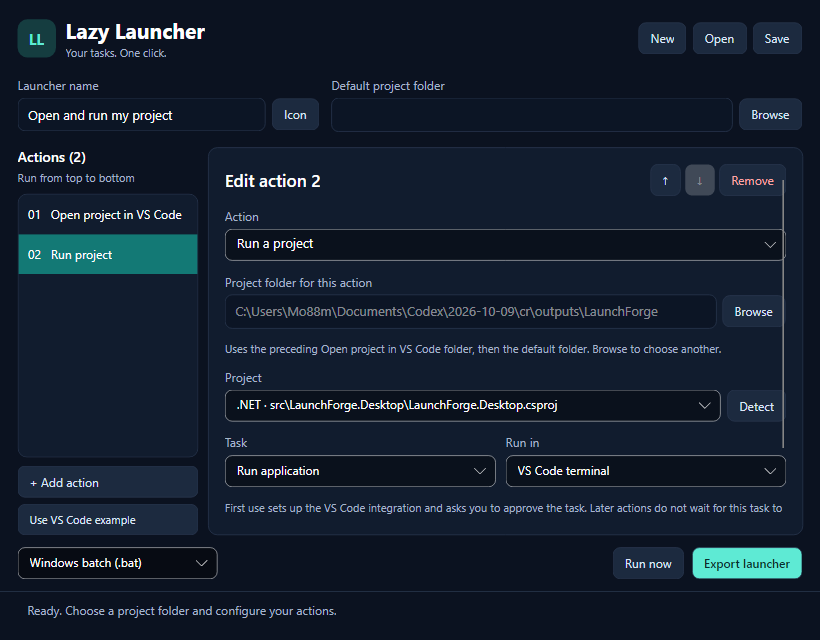
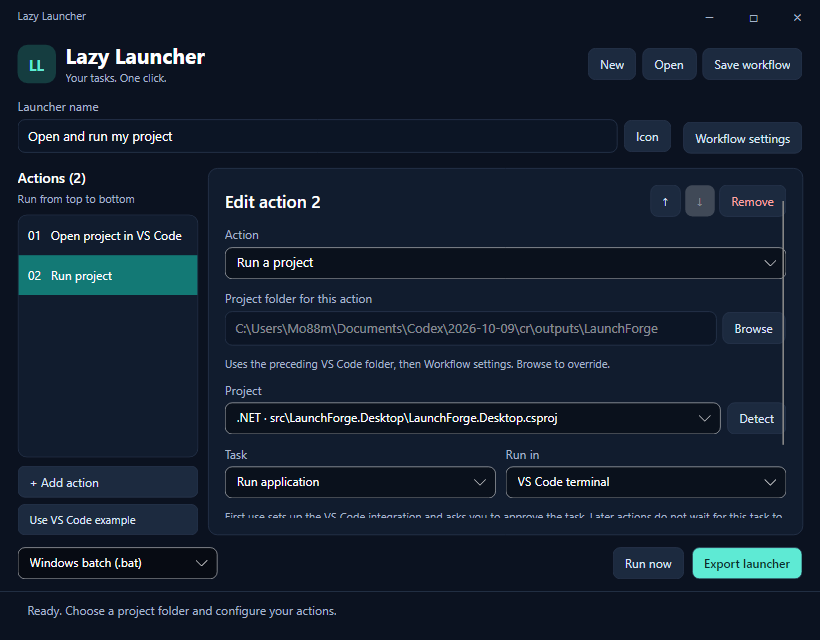
Match title bar to dark theme and clarify shared workflow folder settings

diff --git a/src/LaunchForge.Desktop/MainWindow.cs b/src/LaunchForge.Desktop/MainWindow.cs
@@ -1,5 +1,6 @@
 using Avalonia;
 using Avalonia.Controls;
+using Avalonia.Input;
 using Avalonia.Layout;
 using Avalonia.Media;
 using Avalonia.Platform.Storage;
@@ -15,8 +16,8 @@ public sealed class MainWindow : Window
     private static readonly IBrush Outline = Brush.Parse("#29374E");
     private static readonly IBrush Muted = Brush.Parse("#A6B4CA");
     private static readonly IBrush Accent = Brush.Parse("#5EEAD4");
-    private readonly Grid _editor = new() { RowDefinitions = new RowDefinitions("Auto,Auto,*,Auto"), Margin = new Thickness(18, 16, 18, 0) };
-    private readonly StackPanel _details = new() { Spacing = 12 };
+    private readonly Grid _editor = new() { RowDefinitions = new RowDefinitions("Auto,Auto,*,Auto"), Margin = new Thickness(18, 10, 18, 0) };
+    private readonly StackPanel _details = new() { Spacing = 10 };
     private ScrollViewer? _detailScroll;
     private readonly List<TextBlock> _actionLabels = [];
     private readonly TextBox _status = new() { IsReadOnly = true, AcceptsReturn = true, TextWrapping = TextWrapping.Wrap, MinHeight = 36, MaxHeight = 72, Background = Brushes.Transparent, BorderThickness = new Thickness(0), FontSize = 12, Foreground = Muted, Text = "Ready. Choose a project folder and configure your actions." };
@@ -38,8 +39,13 @@ public sealed class MainWindow : Window
         Title = "Lazy Launcher";
         Width = 820; Height = 640; MinWidth = 640; MinHeight = 480;
         Background = Brush.Parse("#0B1220");
+        ExtendClientAreaToDecorationsHint = true;
+        ExtendClientAreaChromeHints = Avalonia.Platform.ExtendClientAreaChromeHints.NoChrome;
+        ExtendClientAreaTitleBarHeightHint = 0;
         WindowStartupLocation = WindowStartupLocation.CenterScreen;
         var root = new DockPanel();
+        var titleBar = CreateTitleBar();
+        DockPanel.SetDock(titleBar, Dock.Top); root.Children.Add(titleBar);
         var statusRow = new DockPanel { Margin = new Thickness(18, 4, 18, 8) };
         DockPanel.SetDock(_cancel, Dock.Right);
         statusRow.Children.Add(_cancel); statusRow.Children.Add(_status);
@@ -55,6 +61,44 @@ public sealed class MainWindow : Window
             if (_operation is not null) { args.Cancel = true; _operation.Cancel(); Log("Cancelling. Close the window again when the operation finishes."); }
         };
         Render();
+    }
+
+    private Control CreateTitleBar()
+    {
+        var bar = new Grid { ColumnDefinitions = new ColumnDefinitions("*,Auto"), Height = 32, Background = Brush.Parse("#0B1220") };
+        var dragArea = new Border { Background = Brushes.Transparent, Child = new TextBlock { Text = "Lazy Launcher", FontSize = 11, Foreground = Muted, Margin = new Thickness(18, 0), VerticalAlignment = VerticalAlignment.Center } };
+        void ToggleMaximize() => WindowState = WindowState == WindowState.Maximized ? WindowState.Normal : WindowState.Maximized;
+        dragArea.PointerPressed += (_, args) =>
+        {
+            if (!args.GetCurrentPoint(this).Properties.IsLeftButtonPressed) return;
+            if (args.ClickCount == 2) ToggleMaximize();
+            else BeginMoveDrag(args);
+            args.Handled = true;
+        };
+        bar.Children.Add(dragArea);
+        var controls = new StackPanel { Orientation = Orientation.Horizontal };
+        Button Caption(string symbol, string label, Action action)
+        {
+            var button = new Button { Content = symbol, Width = 44, Height = 32, Padding = new Thickness(0), Background = Brushes.Transparent, BorderThickness = new Thickness(0), CornerRadius = new CornerRadius(0), Foreground = Muted, FontSize = 16, HorizontalContentAlignment = HorizontalAlignment.Center, VerticalContentAlignment = VerticalAlignment.Center };
+            ToolTip.SetTip(button, label);
+            Avalonia.Automation.AutomationProperties.SetName(button, label);
+            button.Click += (_, _) => action();
+            controls.Children.Add(button); return button;
+        }
+        Caption("\u2212", "Minimize", () => WindowState = WindowState.Minimized);
+        var maximize = Caption("\u25a1", "Maximize", ToggleMaximize);
+        PropertyChanged += (_, args) =>
+        {
+            if (args.Property != WindowStateProperty) return;
+            var label = WindowState == WindowState.Maximized ? "Restore" : "Maximize";
+            maximize.Content = WindowState == WindowState.Maximized ? "\u2750" : "\u25a1";
+            ToolTip.SetTip(maximize, label); Avalonia.Automation.AutomationProperties.SetName(maximize, label);
+        };
+        var close = Caption("\u00d7", "Close", Close);
+        close.PointerEntered += (_, _) => { close.Background = Brush.Parse("#B42335"); close.Foreground = Brushes.White; };
+        close.PointerExited += (_, _) => { close.Background = Brushes.Transparent; close.Foreground = Muted; };
+        Grid.SetColumn(controls, 1); bar.Children.Add(controls);
+        return bar;
     }
 
     private void FitToScreen()
@@ -91,7 +135,7 @@ public sealed class MainWindow : Window
         var workflow = _workflow;
         _selectedAction = Math.Clamp(_selectedAction, 0, Math.Max(0, _workflow.Steps.Count - 1));
 
-        var header = new Grid { ColumnDefinitions = new ColumnDefinitions("*,Auto"), Margin = new Thickness(0, 0, 0, 16) };
+        var header = new Grid { ColumnDefinitions = new ColumnDefinitions("*,Auto"), Margin = new Thickness(0, 0, 0, 12) };
         var brand = new StackPanel { Orientation = Orientation.Horizontal, Spacing = 10 };
         brand.Children.Add(new Border
         {
@@ -106,11 +150,13 @@ public sealed class MainWindow : Window
         var toolbar = new StackPanel { Orientation = Orientation.Horizontal, Spacing = 6, VerticalAlignment = VerticalAlignment.Center };
         toolbar.Children.Add(ActionButton("New", () => { _workflow = new Workflow(); _selectedAction = 0; Render(); }));
         toolbar.Children.Add(AsyncButton("Open", OpenAsync));
-        toolbar.Children.Add(AsyncButton("Save", SaveAsync));
+        var save = AsyncButton("Save workflow", SaveAsync);
+        ToolTip.SetTip(save, "Save the launcher name, settings, icon and actions as a workflow JSON file.");
+        toolbar.Children.Add(save);
         Grid.SetColumn(toolbar, 1); header.Children.Add(toolbar);
         _editor.Children.Add(header);
 
-        var setup = new Grid { ColumnDefinitions = new ColumnDefinitions("2*,3*"), Margin = new Thickness(0, 0, 0, 14) };
+        var setup = new Grid { ColumnDefinitions = new ColumnDefinitions("*,Auto"), Margin = new Thickness(0, 0, 0, 14) };
         var name = new StackPanel { Spacing = 5 };
         name.Children.Add(Label("Launcher name"));
         var nameRow = new Grid { ColumnDefinitions = new ColumnDefinitions("*,Auto") };
@@ -119,11 +165,13 @@ public sealed class MainWindow : Window
         icon.Margin = new Thickness(6, 0, 0, 0); Grid.SetColumn(icon, 1); nameRow.Children.Add(icon);
         name.Children.Add(nameRow);
         name.Margin = new Thickness(0, 0, 12, 0); setup.Children.Add(name);
-        var folderGroup = new StackPanel { Spacing = 5 };
-        folderGroup.Children.Add(Label("Default project folder"));
+        var folderGroup = new StackPanel { Spacing = 8, Width = 380, MaxWidth = 380 };
+        folderGroup.Children.Add(new TextBlock { Text = "Workflow settings", FontSize = 16, FontWeight = FontWeight.SemiBold });
+        folderGroup.Children.Add(Label("Shared working folder (optional)"));
+        folderGroup.Children.Add(Hint("Fallback folder for actions without their own folder. Run project first uses the preceding VS Code action's folder."));
         var folderRow = new Grid { ColumnDefinitions = new ColumnDefinitions("*,Auto") };
-        var folderInput = Input(workflow.WorkingDirectory, value => { workflow.WorkingDirectory = value; ResetInheritedProjects(); });
-        ToolTip.SetTip(folderInput, "Full folder path on the computer that will run the launcher.");
+        var folderInput = Input(workflow.WorkingDirectory, value => { workflow.WorkingDirectory = value; ResetInheritedProjects(); }, "Choose a shared folder, or leave empty");
+        ToolTip.SetTip(folderInput, "Full folder path on the computer that will run the launcher. Saved inside the workflow.");
         folderRow.Children.Add(folderInput);
         var browse = AsyncButton("Browse", async () =>
         {
@@ -137,7 +185,13 @@ public sealed class MainWindow : Window
             }
         });
         browse.Margin = new Thickness(6, 0, 0, 0); Grid.SetColumn(browse, 1); folderRow.Children.Add(browse);
-        folderGroup.Children.Add(folderRow); Grid.SetColumn(folderGroup, 1); setup.Children.Add(folderGroup);
+        folderGroup.Children.Add(folderRow);
+        folderGroup.Children.Add(Hint("Save workflow remembers this setting. You choose where to save the workflow or generated launcher separately."));
+        var settings = NewButton("Workflow settings");
+        settings.VerticalAlignment = VerticalAlignment.Bottom;
+        settings.Flyout = new Flyout { Content = folderGroup };
+        ToolTip.SetTip(settings, "Optional shared working folder. Each action can choose its own folder.");
+        Grid.SetColumn(settings, 1); setup.Children.Add(settings);
         Grid.SetRow(setup, 1); _editor.Children.Add(setup);
 
         var workspace = new Grid { ColumnDefinitions = new ColumnDefinitions("190,*"), Margin = new Thickness(0, 0, 0, 12) };
@@ -273,7 +327,7 @@ public sealed class MainWindow : Window
         else
         {
             bool application = step.Kind == ActionKind.OpenApplication;
-            _details.Children.Add(Field(application ? "Application" : "Folder", step.Target, value => { step.Target = value; if (step.Kind == ActionKind.OpenVsCode) ResetInheritedProjects(); }, application ? "Select an application or enter its name" : "Leave blank to use the default project folder"));
+            _details.Children.Add(Field(application ? "Application" : "Folder", step.Target, value => { step.Target = value; if (step.Kind == ActionKind.OpenVsCode) ResetInheritedProjects(); }, application ? "Select an application or enter its name" : "Leave blank to use the shared folder in Workflow settings"));
             _details.Children.Add(AsyncButton(application ? "Browse application..." : "Browse folder...", async () =>
             {
                 if (application)
@@ -319,7 +373,7 @@ public sealed class MainWindow : Window
         }
         var advanced = new StackPanel { Spacing = 10, Margin = new Thickness(0, 8, 0, 0) };
         advanced.Children.Add(Field("Action name", step.Name, value => { step.Name = value; actionLabel.Text = ActionTitle(position, step); }));
-        if (step.Kind != ActionKind.RunProject) advanced.Children.Add(Field("Working folder", step.WorkingDirectory, value => step.WorkingDirectory = value, "Leave blank to use the default project folder"));
+        if (step.Kind != ActionKind.RunProject) advanced.Children.Add(Field("Working folder", step.WorkingDirectory, value => step.WorkingDirectory = value, "Leave blank to use the shared folder in Workflow settings"));
         _details.Children.Add(new Expander { Header = "Advanced options", Content = advanced, IsExpanded = !string.IsNullOrWhiteSpace(step.WorkingDirectory), HorizontalAlignment = HorizontalAlignment.Stretch, FontSize = 12, Background = Surface, BorderBrush = Outline, BorderThickness = new Thickness(1), CornerRadius = new CornerRadius(7) });
     }
 
@@ -364,7 +418,7 @@ public sealed class MainWindow : Window
         browse.Margin = new Thickness(6, 0, 0, 0); Grid.SetColumn(browse, 1); folderRow.Children.Add(browse);
         _details.Children.Add(Labeled("Project folder for this action", folderRow));
         _details.Children.Add(Hint(string.IsNullOrWhiteSpace(step.WorkingDirectory)
-            ? "Uses the preceding Open project in VS Code folder, then the default folder. Browse to choose another."
+            ? "Uses the preceding VS Code folder, then Workflow settings. Browse to override."
             : "Uses this action's folder. Clear it to follow the preceding VS Code action."));
         if (_projects.TryGetValue(folder, out var detected) && detected.Count > 0)
         {
@@ -526,7 +580,7 @@ public sealed class MainWindow : Window
         await using var stream = await file.OpenWriteAsync();
         stream.SetLength(0);
         await using var writer = new StreamWriter(stream);
-        await writer.WriteAsync(_workflow.ToJson()); Log("Workflow saved.");
+        await writer.WriteAsync(_workflow.ToJson()); Log($"Workflow saved with its settings and actions: {file.Name}");
     }
 
     private string SafeName() => string.Concat(_workflow.Name.Select(character => char.IsAsciiLetterOrDigit(character) || character is '-' or '_' ? character : '-')).Trim('-') is { Length: > 0 } name ? name : "launcher";

diff --git a/README.md b/README.md
@@ -33,12 +33,12 @@ On Windows you can also double-click `start-windows.bat`. On Linux use `bash sta
 The desktop interface uses Avalonia 11. On Linux it needs a graphical desktop and Avalonia's native desktop dependencies: https://docs.avaloniaui.net/docs/platform-specific-guides/linux/
 
 1. Use the VS Code example, or create a new workflow.
-2. Browse to the project folder. The example detects available projects automatically; **Detect project** can refresh the results.
-3. Add actions, choose their types, and fill in options. **Run a project** has its own visible folder picker. Leave it blank to follow the most recent preceding **Open project in VS Code** folder, falling back to the **Default project folder**. Browse to override it, or type a folder and click **Detect project**. Then choose a project, task, and **Outside VS Code** or **VS Code terminal**. New workflows start with no folder selected; the export destination is never used to detect a project.
+2. Choose a folder in your VS Code or Run project action. Browsing detects available projects automatically; **Detect project** can refresh the results.
+3. Add actions, choose their types, and fill in options. **Run a project** has its own visible folder picker. Leave it blank to follow the most recent preceding **Open project in VS Code** folder, falling back to the optional **Shared working folder** under **Workflow settings**. Browse to override it, or type a folder and click **Detect project**. Then choose a project, task, and **Outside VS Code** or **VS Code terminal**. New workflows start with no folder selected; the export destination is never used to detect a project.
 4. Use **Custom command** if you need another action. Windows uses cmd.exe and Linux uses Bash outside VS Code; inside VS Code, commands use its configured terminal shell.
-5. Save the workflow as JSON, and choose **Export launcher**.
+5. **Save workflow** writes the name, icon, shared folder, and actions to JSON. Choose **Export launcher** to generate the launcher. Each opens a picker to choose where that file is saved.
 
-Action names and individual working folders are under **Advanced options**. For actions outside VS Code, **Wait before starting the next action** runs them sequentially and stops on a nonzero exit code; disable it to launch independently. VS Code tasks run independently after handoff. Later actions do not wait for task completion, approval, or server readiness. There is no readiness/port-wait action yet.
+**Workflow settings** contains an optional shared working folder, used only as a fallback for actions without their own folder. It is saved inside the workflow; it does not set the save or export destination. You can leave it empty when your actions already specify their folders. Action names and other individual working folders are under **Advanced options**. For actions outside VS Code, **Wait before starting the next action** runs them sequentially and stops on a nonzero exit code; disable it to launch independently. VS Code tasks run independently after handoff. Later actions do not wait for task completion, approval, or server readiness. There is no readiness/port-wait action yet.
 
 ## VS Code terminal integration
 
